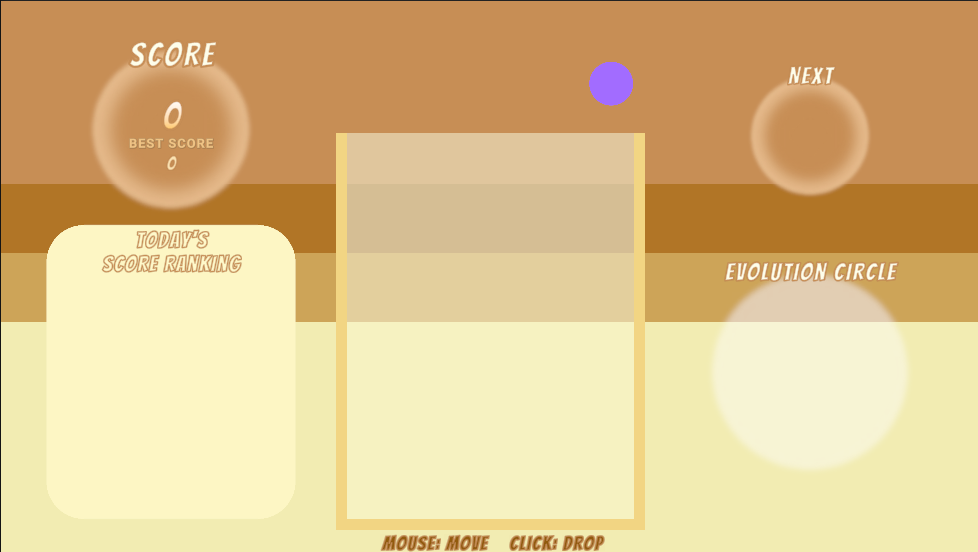
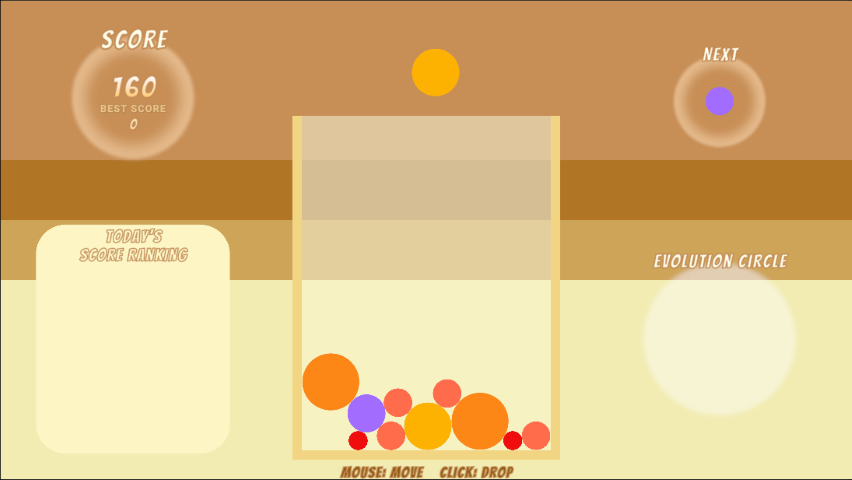
Updated markdown and display images

diff --git a/README.md b/README.md
@@ -34,7 +34,7 @@ This repository aims to clone that game in Unity.
 - [x] Game over when reaching a certain height
 - [x] Display your highest score so far
 - [x] Play sound effects
-- [ ] Display the next operable sphere
+- [x] Display the next operable sphere
 - [ ] Display today's score ranking
 - [ ] Display the circle of evolution
 
